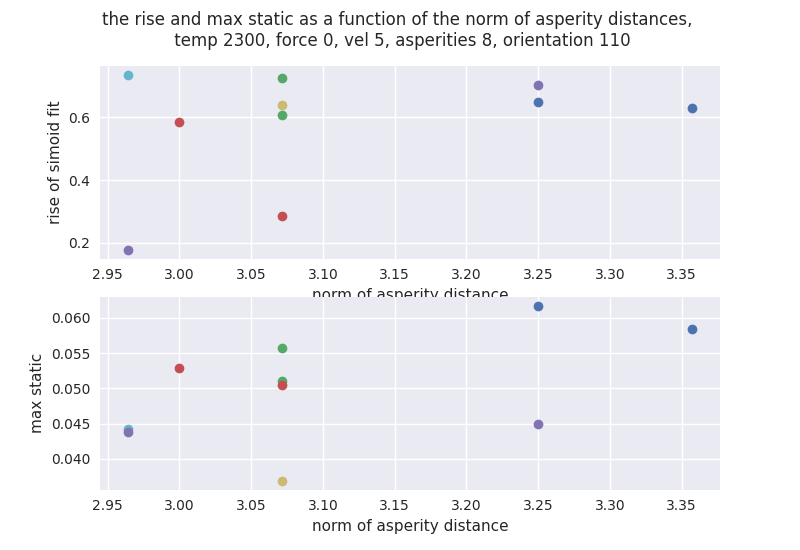
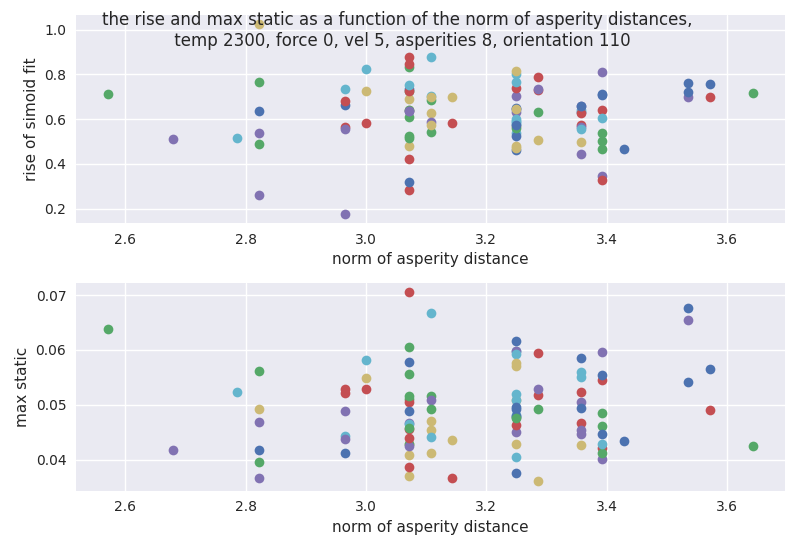
distance vs rise and mx static for 100 first simulations

diff --git a/python/plot/plot_asperity_distance.py b/python/plot/plot_asperity_distance.py
@@ -48,24 +48,16 @@ def plot_max_static_dist():
 
     for i in range(100): #this code now works with producition
         lc_files = glob(template_lc.format(temp, vel, force, asperities,orientation, i, grid[0], grid[1]))
-        if len(lc_files) > 1:
-            lc_file = lc_files[0]
-        else:
-            lc_file = lc_files
+        print(lc_files)
+        lc_file = lc_files[0]
 
         matches = re.findall('\d+', lc_file)
         seed = matches[-3]
 
         rise_files = glob(template_r.format(temp, vel, force, asperities, orientation,i, grid[0], grid[1]))
         ms_files = glob(template_ms.format(temp, vel, force, asperities, orientation,i, grid[0], grid[1]))
-        if len(rise_files) > 1:
-            rise_file = rise_files[0]
-        else:
-            rise_file = rise_files
-        if len(ms_files) > 1:
-            ms_file = ms_files[0]
-        else:
-            ms_file = ms_files
+        rise_file = rise_files[0]
+        ms_file = ms_files[0]
         
         infile = loadtxt(lc_file)
         load_curve = np.array(infile)
